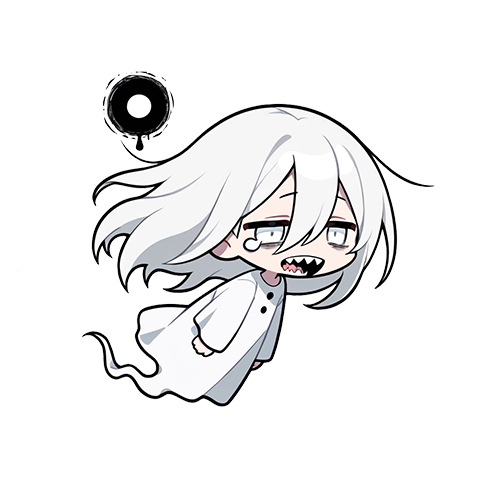
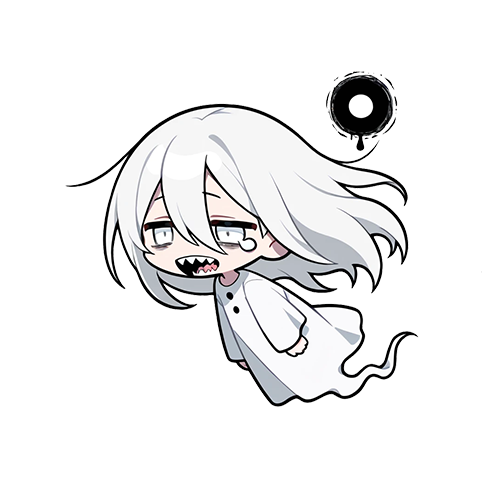
[Fix] Button interactable 변경 수정
[Chore] enemy sprite 좌우 대칭

Changed region(s): [[0.15, 0.12, 0.87, 0.81]]

diff --git a/Assets/01. Scripts/InGame/UI/UIBattle/CharacterUI.cs b/Assets/01. Scripts/InGame/UI/UIBattle/CharacterUI.cs
@@ -19,7 +19,7 @@ public class CharacterUI : MonoBehaviour
     [SerializeField] private List<Button> buttonList = new List<Button>();
     [SerializeField] private Button targetConfirmButton;
     [SerializeField] private Image ultCover;
-    private Button ultButton;
+    [SerializeField] private Button ultButton;
     //[SerializeField] private Button cancelButton;
     [SerializeField] private Button actionButton;
 
@@ -31,7 +31,6 @@ public class CharacterUI : MonoBehaviour
 
     void Start()
     {
-        ultButton = buttonList[0];
         battleSystem.OnPlayerTurn += GetActivePlayerUnit;
         //battleSystem.OnEnemyTurn += GetActiveEnemyUnit;
         AddListener();
@@ -43,12 +42,12 @@ public class CharacterUI : MonoBehaviour
         if (curUnits[battleSystem.TurnIndex].skillBook.GetSkillGauge() == 7)
         {
             ultCover.gameObject.SetActive(false);
-            ultButton.enabled = true;
+            ultButton.interactable = true;
         }
         else
         {
             ultCover.gameObject.SetActive(true);
-            ultButton.enabled = false;
+            ultButton.interactable = false;
         }
     }
 
